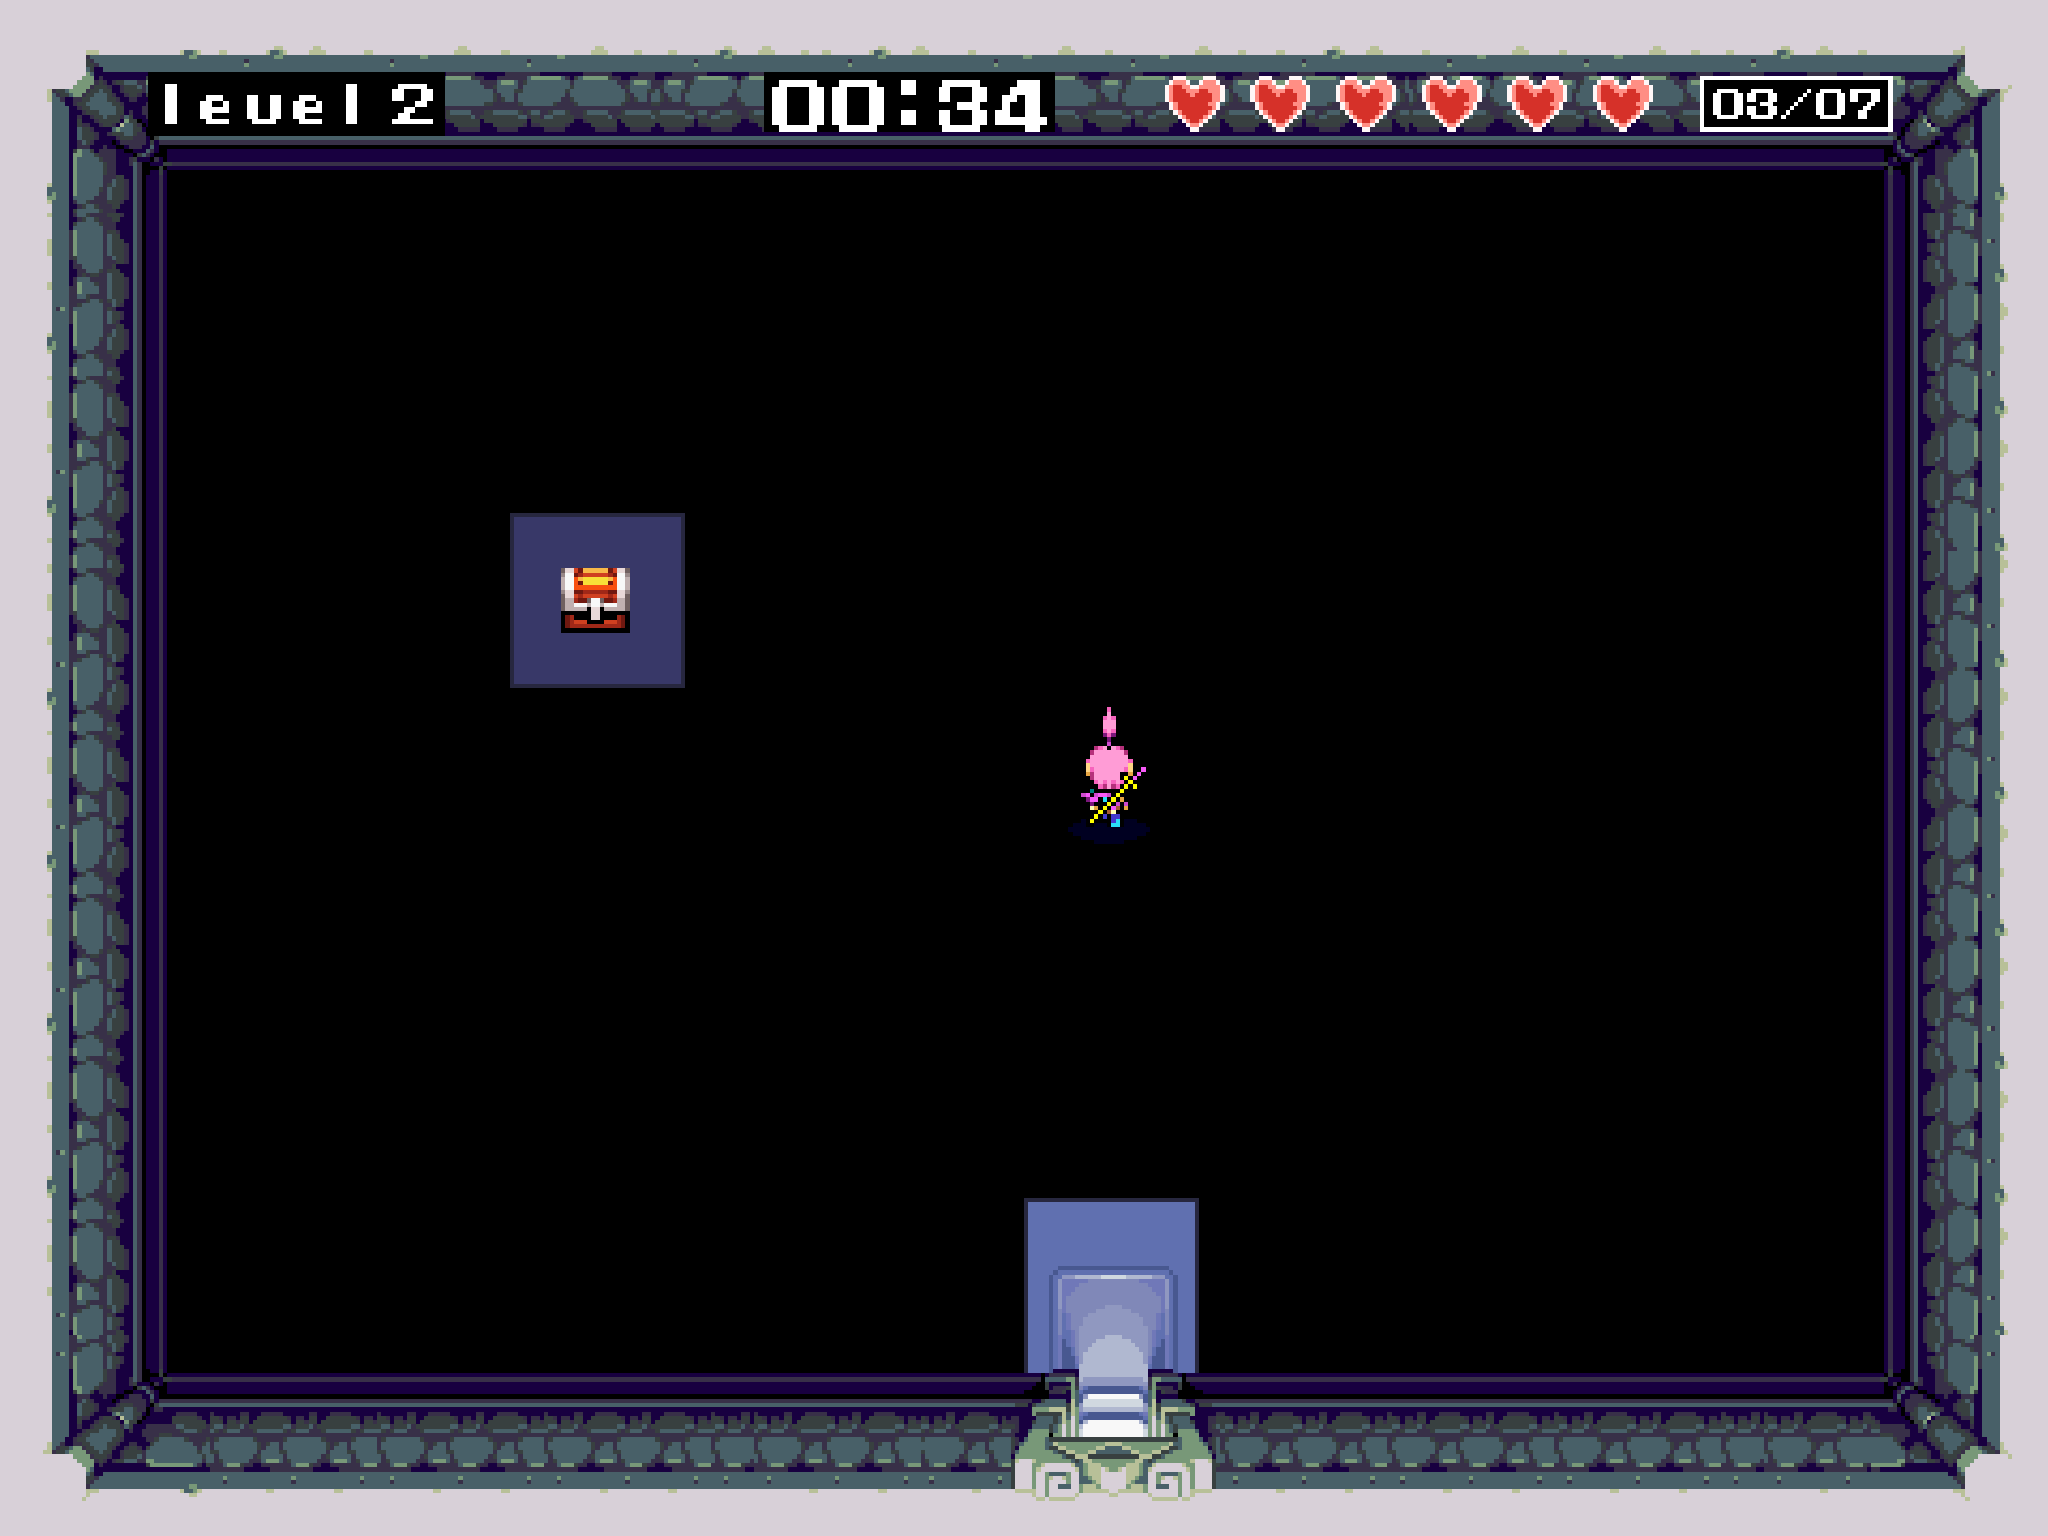
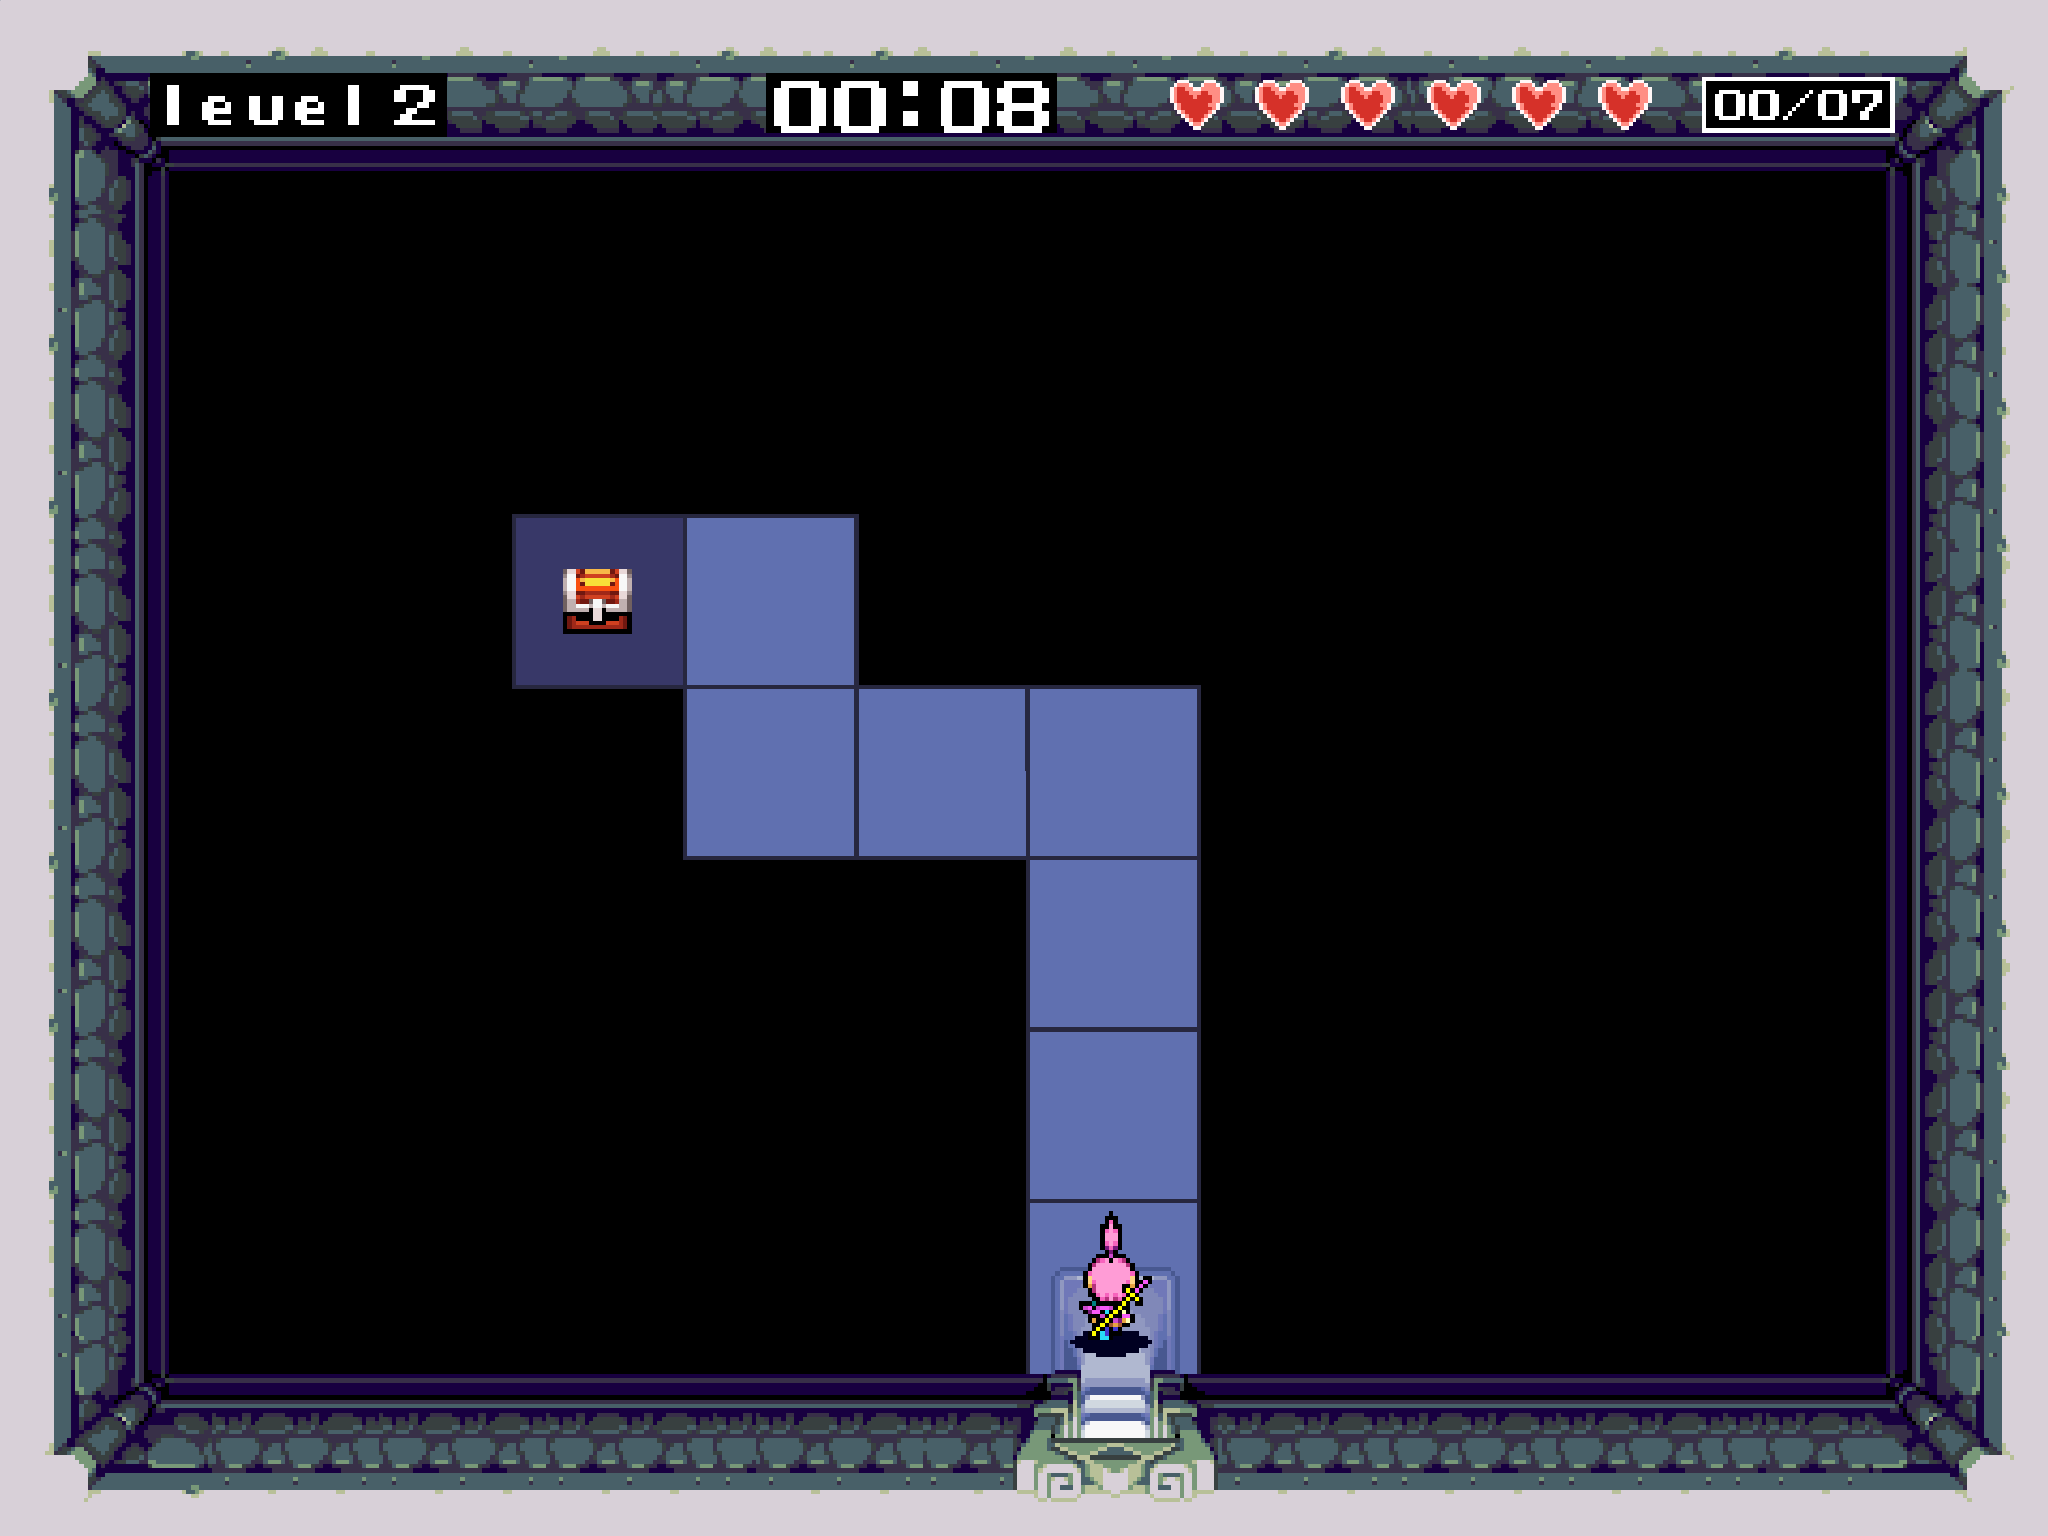
link to game + add gif + change screenshots + update game

Changed region(s): [[0.0312, 0.0312, 0.9688, 0.9688]]

diff --git a/README.md b/README.md
@@ -6,11 +6,9 @@ A memory-based puzzle game developed in Scratch.
 
 ## Play the Game
 
-<!-- add a link to scratch mit website or better solution -->
+[Play Who cut the lights] (https://scratch.mit.edu/projects/1334421271)
 
 ## Gameplay
-
-<!-- Add a GIF -->
 
 - Watch the path appear.
 - Memorize it.
@@ -19,6 +17,20 @@ A memory-based puzzle game developed in Scratch.
 - Complete all 9 levels.
 - Earn Gold, Silver, or Bronze medals based on completion time.
 
+### Main Gameplay
+<a href="/gifs/01-maingame.gif">
+  <img src="/gifs/01-maingame.gif" width="900" alt="game flow diagram">
+</a>
+
+### Fall
+<a href="/gifs/02-fall.gif">
+  <img src="/gifs/02-fall.gif" width="900" alt="game flow diagram">
+</a>
+
+### Ending
+<a href="/gifs/03-endgame.gif">
+  <img src="/gifs/03-endgame.gif" width="900" alt="game flow diagram">
+</a>
 
 ## Game Flow
 
@@ -26,7 +38,7 @@ A memory-based puzzle game developed in Scratch.
   <img src="diagram.png" width="900" alt="game flow diagram">
 </a>
 
-*Click the diagram to view the full-size version.*
+*The diagram is intentionally displayed as a preview. Click the image and open it in a new tab to inspect the full-resolution version.*
 
 ## Game Features
 
@@ -50,12 +62,21 @@ A memory-based puzzle game developed in Scratch.
 
 ...
 
+## What I would improve
 
-## Visual Assets
+- Refactor the chrono/timer
+- Replace duplicated code
+- Add sound settings
+- Add additional levels
+- Port the game to godot
+
+## Credits
+
+### Visual Assets
 
 This project uses sprite assets originally sourced from The Spriters Resource.
-
-The original sprites were not used as-is. Individual sprite elements were extracted, reorganized, recombined, and adapted to create new game scenes, levels, user interface elements, and animations specifically for this project.
+The original sprites were not used as-is.
+Individual sprite elements were modify to create new game scenes, levels, user interface elements, and animations specifically for this project.
 
 Source games include:
 
@@ -71,14 +92,13 @@ Banjo and kazoiie (N64)
 Animal Crossing (N64)
 
 This project also uses sound effects sourced from The Sounds Resource.
-
-Several sounds were edited, trimmed, looped, and integrated into the game to fit specific gameplay events and animations.
+Several sounds were edited, trimmed, looped, and integrated into the game to fit gameplay events and animations.
 
 Asset Sources
 https://www.spriters-resource.com
 https://www.sounds-resource.com
-Disclaimer
+
+!Disclaimer!
 
 All characters, sprites, sounds, trademarks, and intellectual property belong to their respective copyright holders.
-
 This project was created as a non-commercial educational and portfolio project to demonstrate game design, programming logic, documentation, and software development practices.